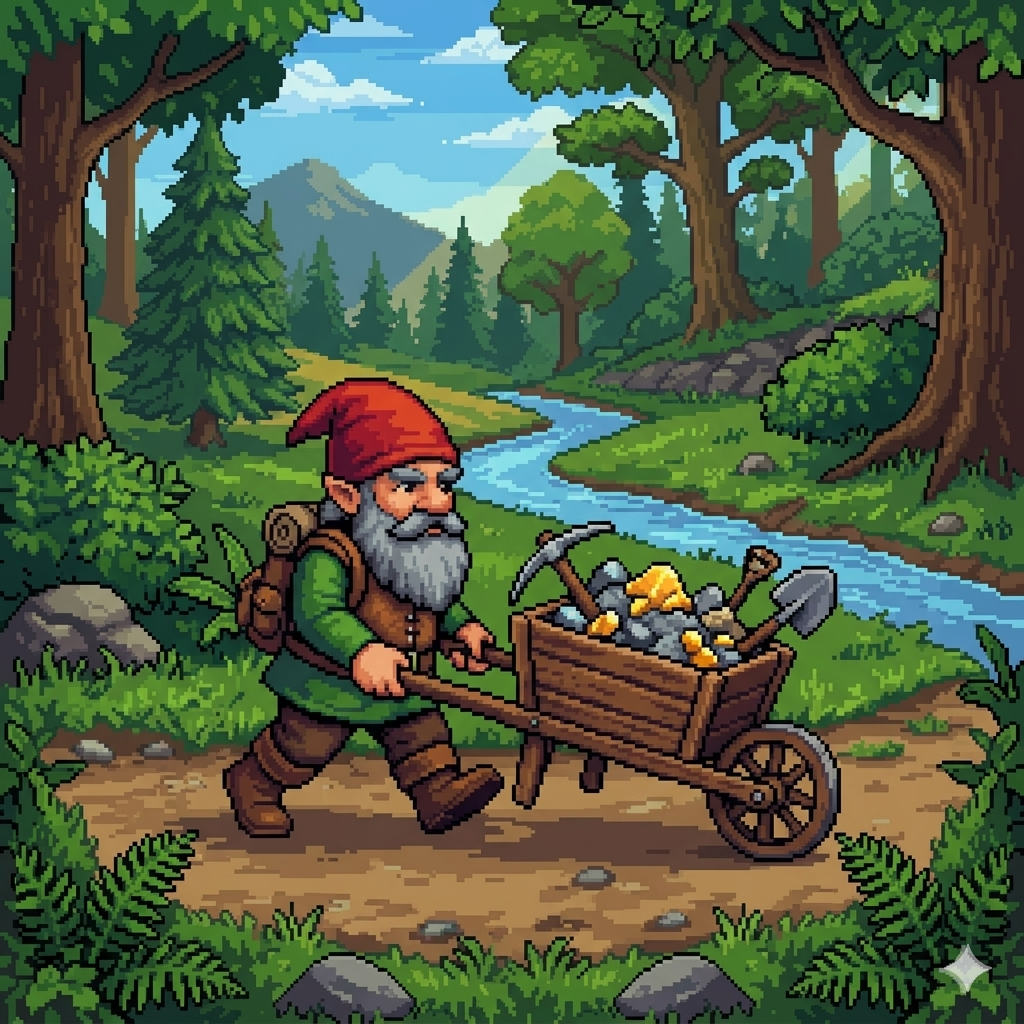
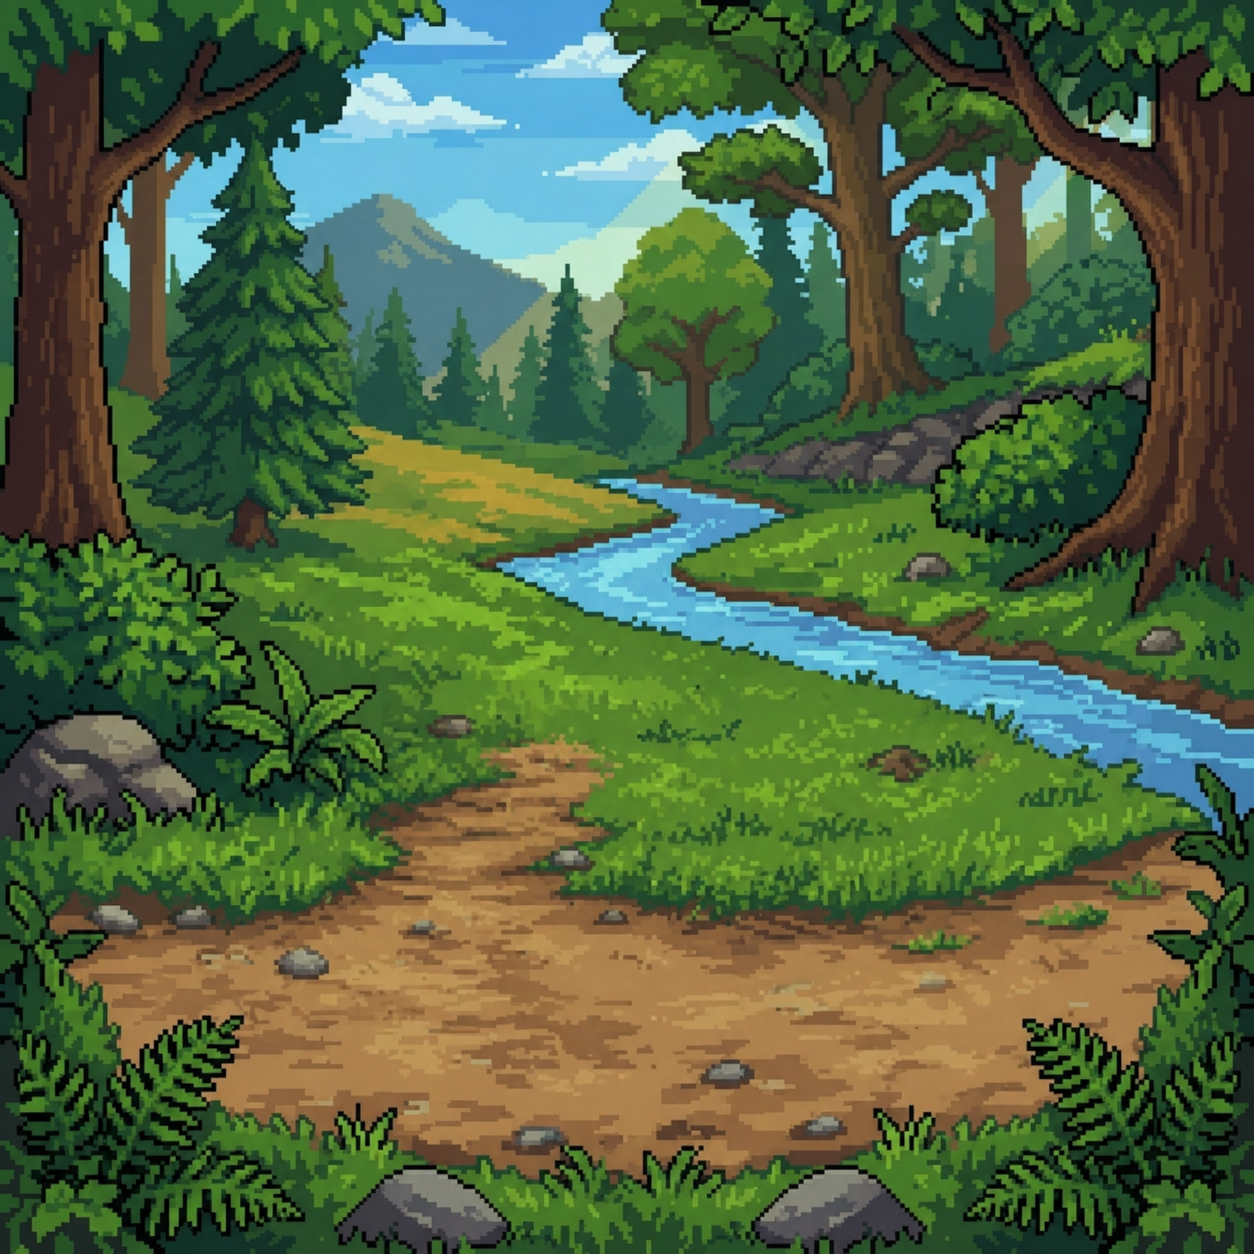
tweaks

diff --git a/src/store/useKlickerStore.jsx b/src/store/useKlickerStore.jsx
@@ -1,0 +1,33 @@
+import { create } from "zustand";
+import { UPGRADE_TYPES } from "@/app/_components/UpgradeList";
+
+const useKlickerStore = create((set, get) => ({
+    klickVergroeserung: 1,
+    intervallVergoesserung: 1,
+    scherbenAnzahl: 0,
+    scherbenAnzahlVergroesern: (anzahl) => {
+        set((state) => ({
+            scherbenAnzahl: state.scherbenAnzahl + anzahl,
+        }))
+    },
+    buyUpgrade: (costs, type, anzahl) => {
+        if (costs <= get().scherbenAnzahl) {
+            if (type === UPGRADE_TYPES.KLICK) {
+                set((state) => ({
+                  klickVergroeserung: state.klickVergroeserung + anzahl
+                }));
+            } else if (type === UPGRADE_TYPES.INTERVALL) {
+                set((state) => ({
+                  intervallVergoesserung: state.intervallVergoesserung + anzahl,
+                }));
+            }
+            set((state) => ({
+                scherbenAnzahl: state.scherbenAnzahl - costs
+            }))
+        } else {
+            alert("Du kannst dir dieses Upgrade nicht kaufen!")
+        }
+    }
+}))
+
+export default useKlickerStore

diff --git a/src/app/_components/UpgradeList.jsx b/src/app/_components/UpgradeList.jsx
@@ -1,14 +1,32 @@
 import React from 'react'
 import Upgrade from './Upgrade'
-import gartenzwerg_schubkarren_background from "@/assets/images/Upgrades/Gartenzwerg_Schubkarren_background.png"
+import gartenzwerg_schubkarren from "@/assets/images/Upgrades/Gartenzwerg_Schubkarren.png";
 
+
+export const UPGRADE_TYPES = {
+  KLICK: "KLICK",
+  INTERVALL: "INTERVALL"
+}
 
 const UpgradeList = () => {
   return (
-    <div className='flex flex-col gap-3 w-full'>
-      <Upgrade image={gartenzwerg_schubkarren_background} costs={5} title={"Schubkarren"} />
+    <div className="flex flex-col gap-3 w-full">
+      <Upgrade
+        image={gartenzwerg_schubkarren}
+        costs={50}
+        anzahl={1}
+        title={"Schubkarren"}
+        type={UPGRADE_TYPES.KLICK}
+      />
+      <Upgrade
+        image={gartenzwerg_schubkarren}
+        costs={100}
+        anzahl={1}
+        title={"ScherbenMaschine"}
+        type={UPGRADE_TYPES.INTERVALL}
+      />
     </div>
-  )
+  );
 }
 
 export default UpgradeList

diff --git a/src/app/_components/ScherbenCounter.jsx b/src/app/_components/ScherbenCounter.jsx
@@ -1,0 +1,20 @@
+"use client"
+
+import React from "react";
+import useKlickerStore from "@/store/useKlickerStore";
+import Image from "next/image";
+import scherbe from "@/assets/images/Scherbe.png"
+
+const ScherbenCounter = () => {
+  const scherbenAnzahl = useKlickerStore((state) => state.scherbenAnzahl);
+
+  return (
+    <div className="flex gap-1.5 items-center justify-center absolute z-10 top-0 right-0 px-6 py-3 bg-slate-200 shadow-xl rounded-bl-xl border-2 border-[rgba(255,255,255,0.5)]">
+      <span className="text-slate-800 font-semibold text-lg">{scherbenAnzahl}</span>
+      <Image src={scherbe} alt="" className="w-12" />
+    </div>
+  );
+};
+
+export default ScherbenCounter;
+ 

diff --git a/src/app/_components/Upgrade.jsx b/src/app/_components/Upgrade.jsx
@@ -1,15 +1,28 @@
+"use client"
+
 import React from 'react'
 import Image from 'next/image'
+import useKlickerStore from '@/store/useKlickerStore'
+import scherbe from "@/assets/images/Scherbe.png"
 
-const Upgrade = ({ title, costs, image }) => {
+const Upgrade = ({ title, costs, image, type, anzahl }) => {
+  const buyUpgrade = useKlickerStore((state) => state.buyUpgrade);
+  
+  const onUpdgrade = () => {
+    buyUpgrade(costs, type, anzahl)    
+  }
+
   return (
-    <div className='flex gap-1.5 bg-white rounded-sm border border-slate-400 p-3 cursor-pointer hover:bg-slate-100 transition-all'>
+    <div onClick={onUpdgrade} className='flex gap-1.5 bg-white rounded-sm border border-slate-400 p-3 cursor-pointer hover:bg-slate-100 transition-all'>
       <div className='w-12 h-12 rounded-full'>
         <Image src={image} alt='' className='rounded-[inherit] object-cover w-full h-full' />
       </div>
       <div className='flex flex-col'>        
         <h2 className='text-slate-800 font-semibold text-xl'>{title}</h2>
-        <p className='text-slate-600'>{costs}</p>
+        <div className='flex items-'>
+          <p className='text-slate-600 font-medim text-md'>{costs}</p>
+          <Image src={scherbe} alt='' className='w-8' />
+        </div>
       </div>
     </div>
   )

diff --git a/src/app/_components/Gartenzwerg.jsx b/src/app/_components/Gartenzwerg.jsx
@@ -1,9 +1,20 @@
-import React from 'react'
+"use client";
+
 import Image from 'next/image'
+import useKlickerStore from '@/store/useKlickerStore';
 
 const Gartenzwerg = ({ image }) => {
+  const scherbenAnzahlVergroesern = useKlickerStore((state) => state.scherbenAnzahlVergroesern);
+  const klickVergroeserung = useKlickerStore(
+    (state) => state.klickVergroeserung,
+  );
+
+  const onGartenzwergKlick = () => {
+    scherbenAnzahlVergroesern(klickVergroeserung);
+  }
+
   return (
-    <div className='z-10'>
+    <div className='z-10 cursor-pointer scale-100 transition-all ease-in duration-200 hover:scale-105' onClick={onGartenzwergKlick}>
       <Image src={image} height={250} alt='' />
     </div>
   )

diff --git a/src/app/page.jsx b/src/app/page.jsx
@@ -4,11 +4,13 @@ import Image from "next/image";
 import Gartenzwerg from "./_components/Gartenzwerg";
 import gartenzwerg_default from "@/assets/images/Gartenzwerge/Gartenzwerg_Default.png"
 import gartenzwerg_schubkarren from "@/assets/images/Gartenzwerge/Gartenzwerg_Schubkarren.png"
+import ScherbenCounter from "./_components/ScherbenCounter";
 
 export default function Home() {
   return (
     <div className="grid grid-cols-[1fr_300px] h-full">
       <div className="relative w-full h-full flex items-center justify-center">
+        <ScherbenCounter />        
         <Gartenzwerg image={gartenzwerg_default} />
         <Image src={background} className="absolute w-full h-full select-none" alt="" />
       </div>